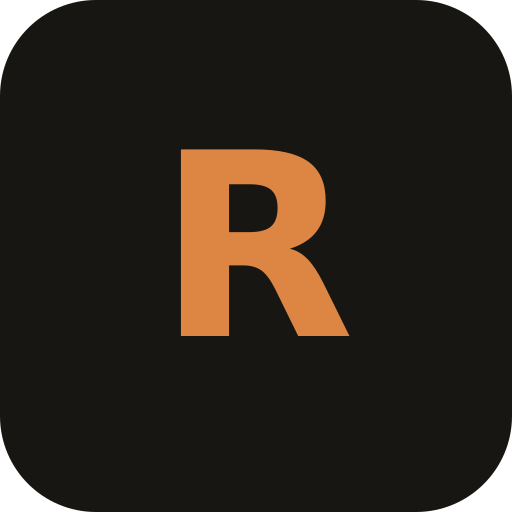
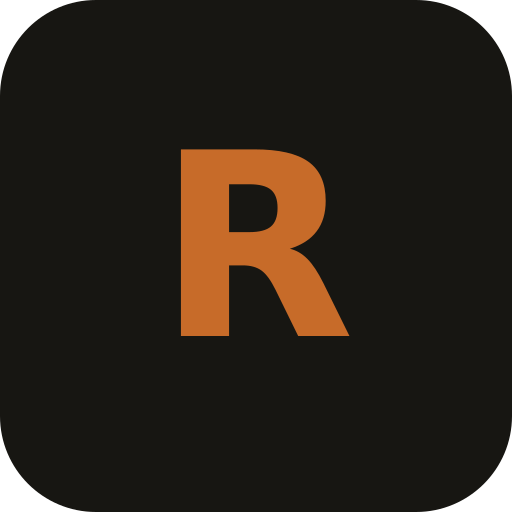
feat(ui): retire violet for a terracotta brand (psychology-led recolor)
Design-system audit + recolor. The app was tokenized well (one `brand` scale +
warm `ink` neutrals + standard semantic colors), but the brand hue had two
problems: (1) electric violet read as cold tech, the wrong register for a
high-end furniture house, and (2) it DRIFTED from the PDF — `pdf/react/theme.ts`
was never violet, it stayed terracotta — so screen/public-link/paper disagreed
on the brand color, which this app's whole 'screen/paper/list never drift'
philosophy is built to avoid.

Fix: move the web `brand` token to terracotta, anchored on the PDF's exact
hexes (50 #fbf4ec · 300 #e8a76d · 500 #c76b29 · 700 #7d3e1c) so all three
surfaces now share one clay. Neuropsychology: warm earth tones read as comfort,
craft and approachability. Semantic colors (emerald=success, amber=warning,
red/rose=danger, blue/sky=info) stay psychology-standard and unchanged.

Foundation flips every surface at once:
- tailwind: brand 50-900 clay ladder, brand-grad lit terracotta, app-wash dual
  warm blooms (no cold violet), focus ring + button glow in clay.
- index.css: ::selection + focus-ring comments to terracotta.
Plus the few hardcoded violet spots: Layout active-nav glow, Login/SetPassword
blooms, favicon mark + regenerated PNG/maskable icons, and the equity
account-class swatch (violet -> teal, off the brand hue).

UI-only. typecheck + build green.

Changed region(s): [[0.3438, 0.2812, 0.6875, 0.6562]]

diff --git a/tailwind.config.js b/tailwind.config.js
@@ -42,51 +42,55 @@ export default {
           800: '#26241f',
           900: '#171612',
         },
-        // Alcover electric violet. Anchored on #3600ff at the 600 step (the
-        // primary-action color); lighter tints toward 50, deeper shades toward
-        // 900. Generated as a constant-hue (253°) ladder so every step reads as
-        // the same color, just brighter/darker. This REPLACED the previous
-        // terracotta scale under the same `brand` token name, so every existing
-        // `brand-*` usage (buttons, badges, map markers, the ::selection wash,
-        // chart accents) flipped to violet in one move.
+        // Alcover terracotta — a warm, grounded clay. Chosen for its
+        // neuropsychology: warm earth tones read as comfort, craftsmanship and
+        // approachability (the right register for high-end furniture), where the
+        // old electric violet read as cold tech. Anchored on the SAME hexes the
+        // PDF already used (theme.ts: 50 #fbf4ec · 300 #e8a76d · 500 #c76b29 ·
+        // 700 #7d3e1c) so screen, public link and printed paper finally share
+        // one brand color instead of drifting (violet on screen vs terracotta on
+        // paper). Constant-hue (~25°) ladder: lighter tints → 50, deeper shades
+        // → 900. Every `brand-*` usage (buttons, badges, map markers, the
+        // ::selection wash, focus ring, chart accents) flips to clay in one move.
         brand: {
-          50:  '#f3f0ff',
-          100: '#e7e0ff',
-          200: '#ccbefe',
-          300: '#a890fd',
-          400: '#7752ff',
-          500: '#5729ff',
-          600: '#3600ff',
-          700: '#3000db',
-          800: '#2904af',
-          900: '#20077e',
+          50:  '#fbf4ec',
+          100: '#f7e7d4',
+          200: '#eecbab',
+          300: '#e8a76d',
+          400: '#d9883f',
+          500: '#c76b29',
+          600: '#a85620',
+          700: '#7d3e1c',
+          800: '#612f16',
+          900: '#4d2713',
         },
       },
       backgroundImage: {
-        // Primary-CTA gradient — a touch of motion in the violet so the main
-        // action button reads as a lit surface, not a flat fill.
-        'brand-grad': 'linear-gradient(135deg, #4a1cff 0%, #3600ff 52%, #2c00d6 100%)',
+        // Primary-CTA gradient — a touch of motion in the clay so the main
+        // action button reads as a lit terracotta surface, not a flat fill.
+        'brand-grad': 'linear-gradient(135deg, #d2772f 0%, #c0641f 52%, #9c4f1d 100%)',
         // Card surface sheen — a barely-there top-to-bottom gradient that gives
         // every card a faint lit-from-above quality (Radix/Linear "surface"
         // tonal step) instead of reading as a dead white rectangle.
         'card-grad': 'linear-gradient(180deg, #ffffff 0%, #fcfbf9 100%)',
-        // Whole-app backdrop wash — a faint violet bloom top-right + a warm
-        // terracotta bloom top-left, so the warm-editorial canvas feels lit and
-        // white cards lift off it. Paired with grain (in index.css) for texture.
-        'app-wash': 'radial-gradient(900px 480px at 100% -6%, rgba(54,0,255,0.055), transparent 60%), radial-gradient(720px 440px at -8% 4%, rgba(201,106,42,0.05), transparent 56%)',
+        // Whole-app backdrop wash — two warm clay blooms (a brighter terracotta
+        // top-right, a deeper clay top-left) so the warm-editorial canvas feels
+        // lit and white cards lift off it. Paired with grain (in index.css) for
+        // texture. Both blooms now share the brand hue (no more cold violet).
+        'app-wash': 'radial-gradient(900px 480px at 100% -6%, rgba(199,107,41,0.06), transparent 60%), radial-gradient(720px 440px at -8% 4%, rgba(168,86,32,0.05), transparent 56%)',
       },
       boxShadow: {
         // Warm-tinted elevation ladder (shadow color = ink-700 #3b3830, not
         // neutral black) so depth reads as warm editorial paper, not cold SaaS.
         // hairline → resting card → raised/hover → floating overlay, plus the
-        // violet focus ring and violet button glow.
+        // terracotta focus ring and terracotta button glow.
         xs:   '0 1px 2px rgba(59,56,48,0.05)',
         sm:   '0 1px 2px rgba(59,56,48,0.06), 0 1px 3px rgba(59,56,48,0.05)',
         soft: '0 1px 2px rgba(59,56,48,0.05), 0 3px 8px rgba(59,56,48,0.06), 0 14px 30px -10px rgba(59,56,48,0.12)',
         md:   '0 2px 4px rgba(59,56,48,0.06), 0 10px 24px -6px rgba(59,56,48,0.14)',
         pop:  '0 18px 50px -12px rgba(23,22,18,0.30), 0 6px 16px -6px rgba(23,22,18,0.16)',
-        focus:'0 0 0 4px rgba(54,0,255,0.16)',
-        glow: '0 1px 2px rgba(54,0,255,0.30), 0 10px 26px -6px rgba(54,0,255,0.45)',
+        focus:'0 0 0 4px rgba(199,107,41,0.18)',
+        glow: '0 1px 2px rgba(168,86,32,0.30), 0 10px 26px -6px rgba(168,86,32,0.42)',
       },
     },
   },

diff --git a/src/index.css b/src/index.css
@@ -98,7 +98,7 @@
             texture instead of a dead flat fill (the recurring complaint). At
             ~4.5% it's felt, not seen; cards are opaque so it lives mostly in
             the gutters/gaps between them.
-         2. wash — violet + terracotta blooms that light the page corners.
+         2. wash — warm terracotta blooms that light the page corners.
          3. canvas color (#f3f1ed) — a warm paper tone set a clear step BELOW
             the white cards, so the cards finally read as elevated surfaces.
        Tonal elevation, Radix-style: canvas (deepest) → card (white + sheen) →
@@ -115,7 +115,7 @@
        static block lets that machinery work even though it doesn't scroll. */
     position: relative;
   }
-  ::selection { background-color: #3600ff; color: #ffffff; }
+  ::selection { background-color: #a85620; color: #ffffff; }
 
   /* Prevent iOS Safari auto-zoom on input focus (triggers when font-size < 16px). */
   @media (max-width: 767px) {
@@ -283,9 +283,9 @@
 }
 
 @layer base {
-  /* Vercel/Linear style keyboard focus ring — invisible until tabbed. Now in
-     the electric-violet brand color so keyboard focus reads as a deliberate
-     brand cue instead of a plain dark box. */
+  /* Vercel/Linear style keyboard focus ring — invisible until tabbed. In the
+     terracotta brand color so keyboard focus reads as a deliberate brand cue
+     instead of a plain dark box. */
   *:focus { outline: none; }
   :where(a, button, [role="button"], input, select, textarea):focus-visible {
     outline: 2px solid theme('colors.brand.600');
@@ -306,8 +306,8 @@
   .btn-secondary { @apply btn bg-white text-ink-900 border border-ink-200 shadow-xs hover:bg-ink-50 hover:border-ink-300 active:bg-ink-100; }
   .btn-ghost    { @apply btn text-ink-700 hover:bg-ink-100 active:bg-ink-200; }
   .btn-danger   { @apply btn bg-red-600 text-white shadow-sm hover:bg-red-700 active:bg-red-800; }
-  /* Brand CTA — the electric-violet primary action. A lit gradient surface
-     with a violet glow so it reads as the single loudest control on screen;
+  /* Brand CTA — the terracotta primary action. A lit clay gradient surface
+     with a warm glow so it reads as the single loudest control on screen;
      brightness nudges replace flat hover/active color swaps on the gradient. */
   .btn-brand    { @apply btn text-white bg-brand-grad shadow-glow hover:brightness-110 hover:shadow-glow active:brightness-95; }
 
@@ -334,7 +334,7 @@
     background-image: theme('backgroundImage.card-grad');
   }
   /* Interactive card — for cards that are links/buttons. Lifts on hover with a
-     deeper shadow + a hairline violet border so the whole surface reads as
+     deeper shadow + a hairline terracotta border so the whole surface reads as
      tappable, not just a cursor change. Pairs with `hover:-translate-y-0.5`
      at the call site where a lift is wanted. */
   .card-interactive { @apply card cursor-pointer hover:shadow-md hover:border-brand-200; }

diff --git a/src/pages/Login.jsx b/src/pages/Login.jsx
@@ -3,15 +3,15 @@ import { Mail, Lock, LogIn, AlertCircle } from 'lucide-react';
 import { useAuth } from '../context/AuthContext.jsx';
 import { userMessageFor } from '../lib/errorMessages.js';
 
-// Decorative violet bloom — absolutely positioned, pointer-events-none,
+// Decorative terracotta bloom — absolutely positioned, pointer-events-none,
 // so it sits behind the card and never captures clicks.
-function VioletBloom() {
+function BrandBloom() {
   return (
     <div
       aria-hidden
       className="pointer-events-none absolute left-1/2 top-1/3 -translate-x-1/2 -translate-y-1/2 w-[520px] h-[520px] rounded-full opacity-[0.18]"
       style={{
-        background: 'radial-gradient(circle, #5729ff 0%, transparent 70%)',
+        background: 'radial-gradient(circle, #c76b29 0%, transparent 70%)',
         filter: 'blur(60px)',
       }}
     />
@@ -58,7 +58,7 @@ export default function Login() {
 
   return (
     <div className="relative h-full flex items-center justify-center bg-app-wash overflow-hidden">
-      <VioletBloom />
+      <BrandBloom />
       <div className="card-auth relative z-10">
         {/* Wordmark / brand header */}
         <div className="text-center mb-8">

diff --git a/src/pages/SetPassword.jsx b/src/pages/SetPassword.jsx
@@ -88,11 +88,11 @@ export default function SetPassword() {
 
   return (
     <div className="relative h-full flex items-center justify-center bg-app-wash overflow-hidden">
-      {/* Subtle violet bloom behind the card */}
+      {/* Subtle terracotta bloom behind the card */}
       <div
         aria-hidden
         className="pointer-events-none absolute left-1/2 top-1/3 -translate-x-1/2 -translate-y-1/2 w-[520px] h-[520px] rounded-full opacity-[0.15]"
-        style={{ background: 'radial-gradient(circle, #5729ff 0%, transparent 70%)', filter: 'blur(60px)' }}
+        style={{ background: 'radial-gradient(circle, #c76b29 0%, transparent 70%)', filter: 'blur(60px)' }}
       />
       <div className="card-auth relative z-10">
         <div className="text-center mb-8">

diff --git a/src/components/Layout.jsx b/src/components/Layout.jsx
@@ -194,7 +194,7 @@ export default function Layout() {
                       const on = sectionActive != null ? sectionActive : isActive;
                       return `flex items-center gap-2.5 px-3 min-h-11 md:min-h-9 rounded-md text-sm transition-all active:scale-[0.99] ${
                         on
-                          ? 'bg-brand-grad text-white font-medium shadow-[0_4px_14px_-3px_rgba(54,0,255,0.6)]'
+                          ? 'bg-brand-grad text-white font-medium shadow-[0_4px_14px_-3px_rgba(168,86,32,0.55)]'
                           : 'text-ink-300 hover:bg-ink-800 hover:text-ink-100'
                       }`;
                     }}

diff --git a/src/pages/accounting/ChartOfAccounts.jsx b/src/pages/accounting/ChartOfAccounts.jsx
@@ -19,7 +19,7 @@ import { buildChartIndex, chartRoots, ACCOUNT_CLASS_NAMES } from '../../core/acc
 const CLASS_TONE = {
   1: 'bg-sky-100 text-sky-700',
   2: 'bg-amber-100 text-amber-700',
-  3: 'bg-violet-100 text-violet-700',
+  3: 'bg-teal-100 text-teal-700',
   4: 'bg-emerald-100 text-emerald-700',
   5: 'bg-rose-100 text-rose-700',
   6: 'bg-orange-100 text-orange-700',